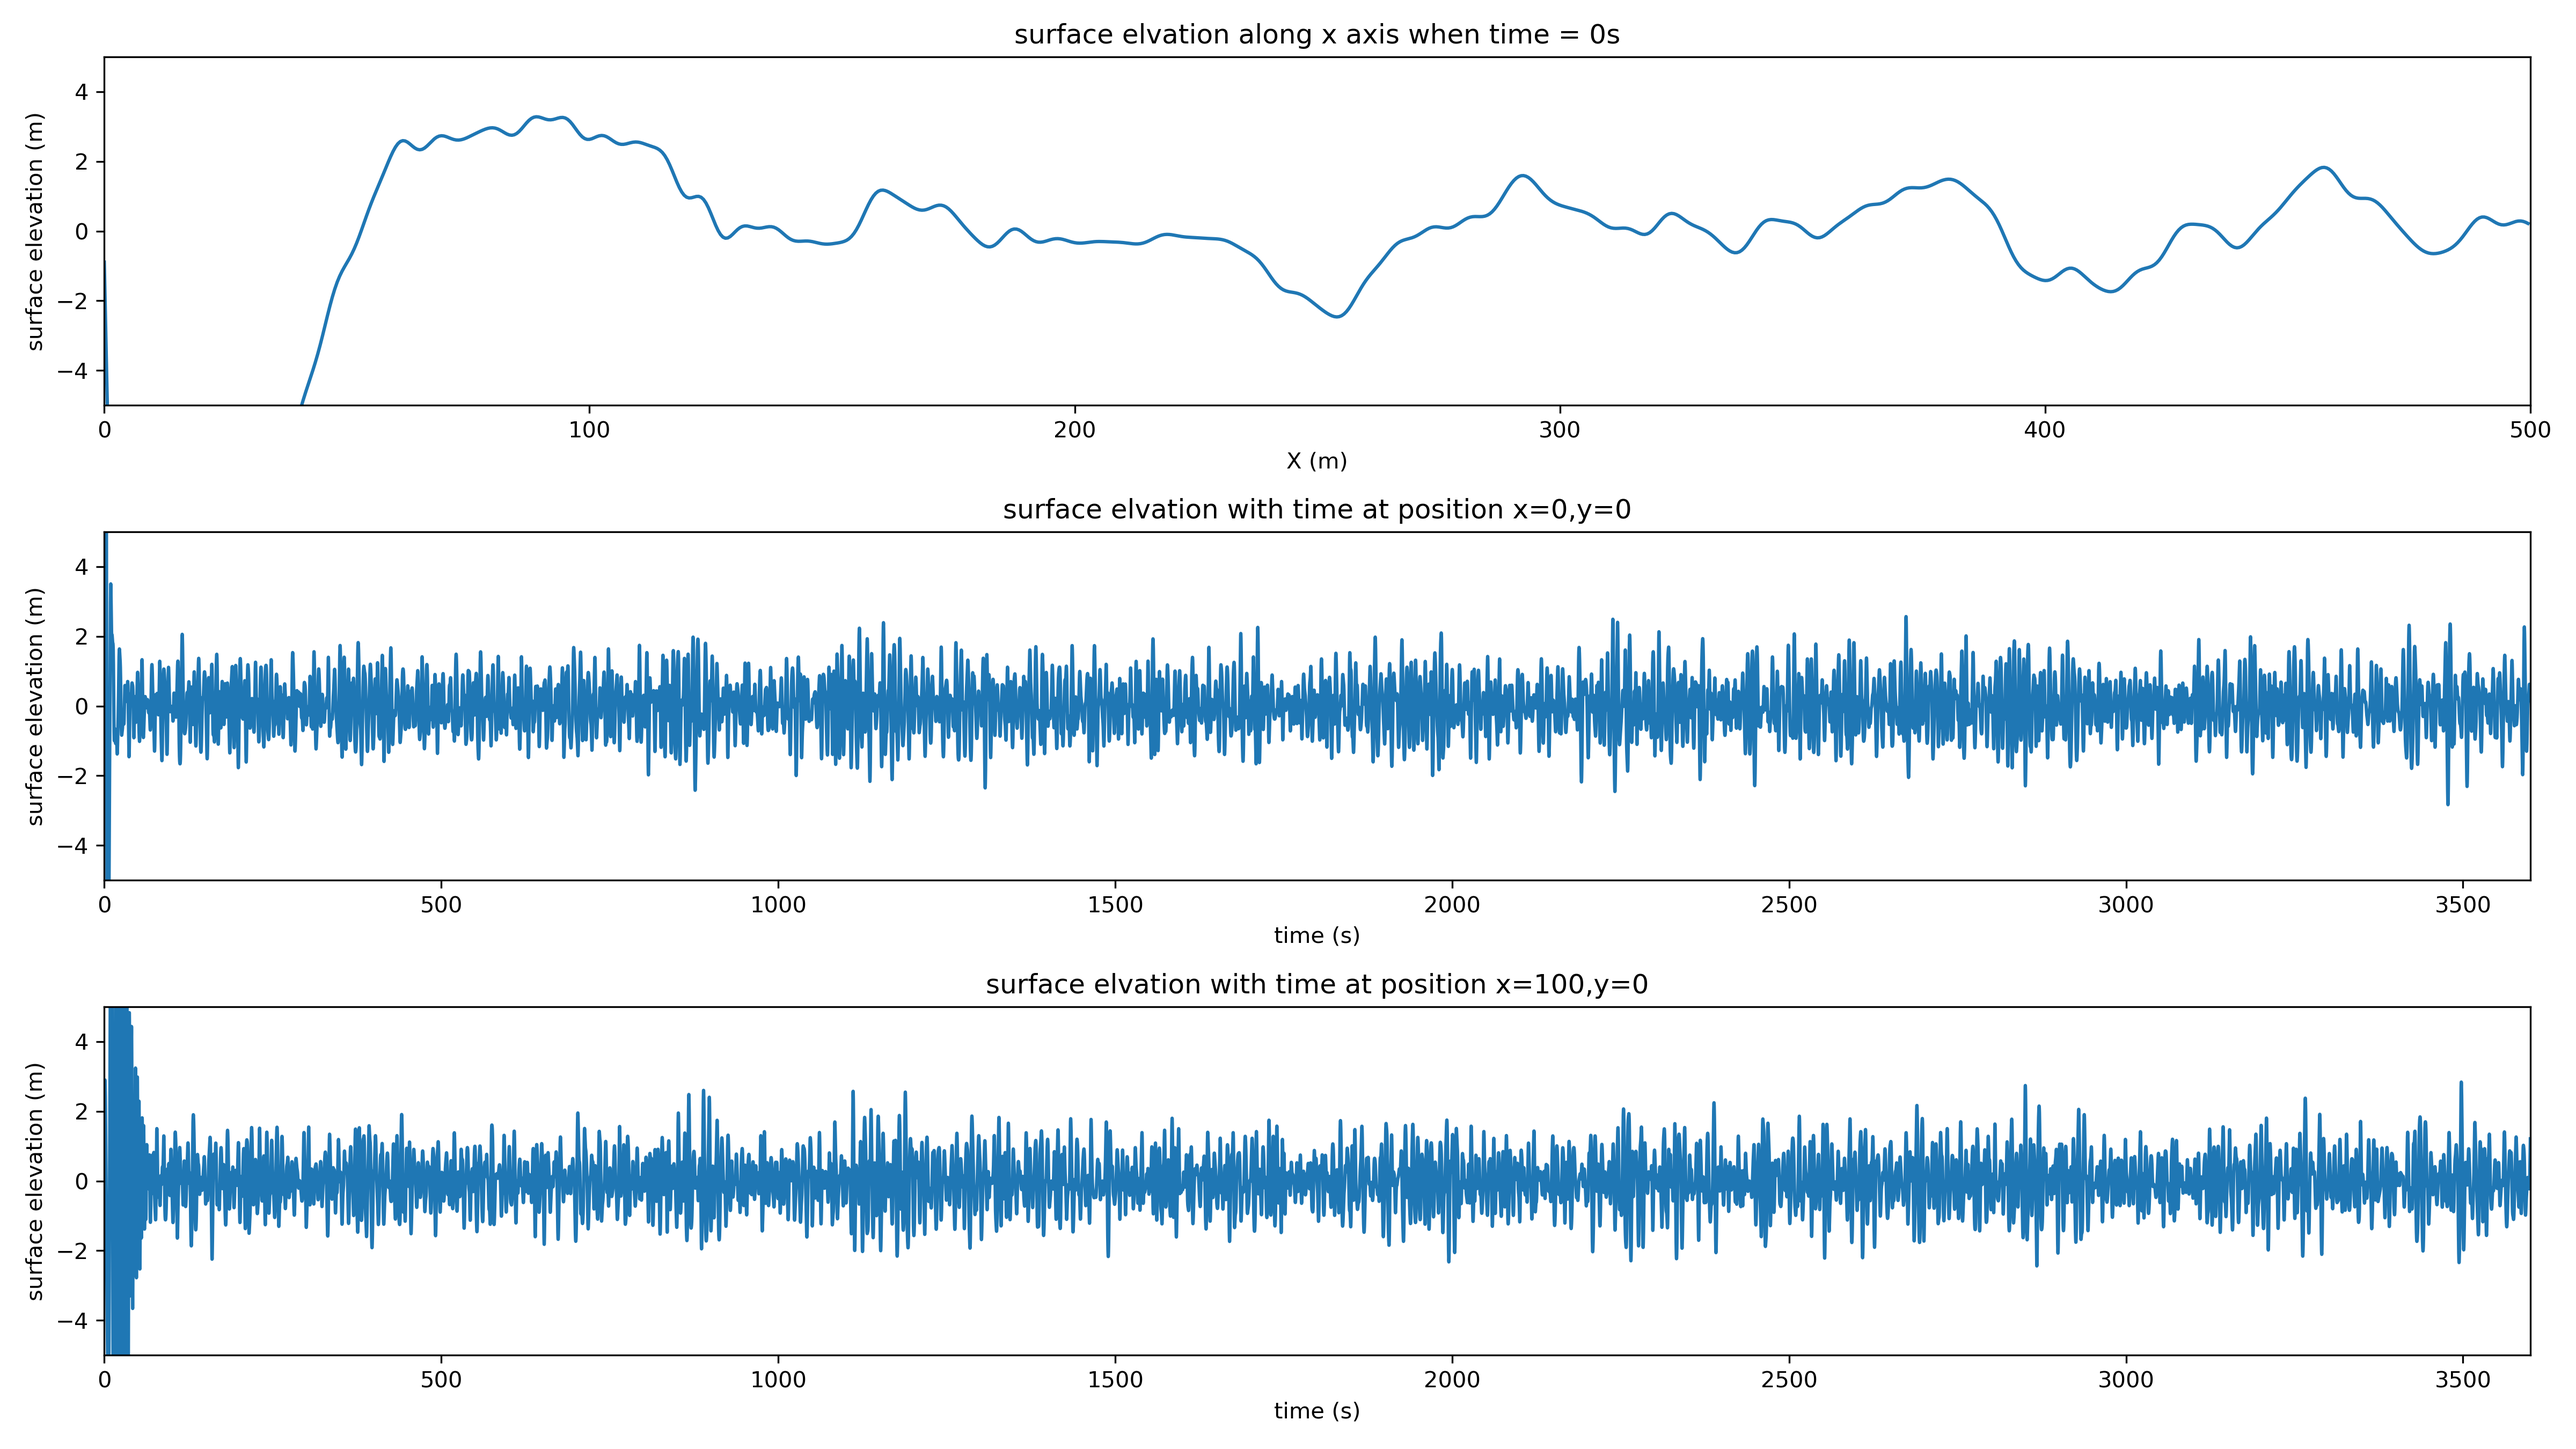
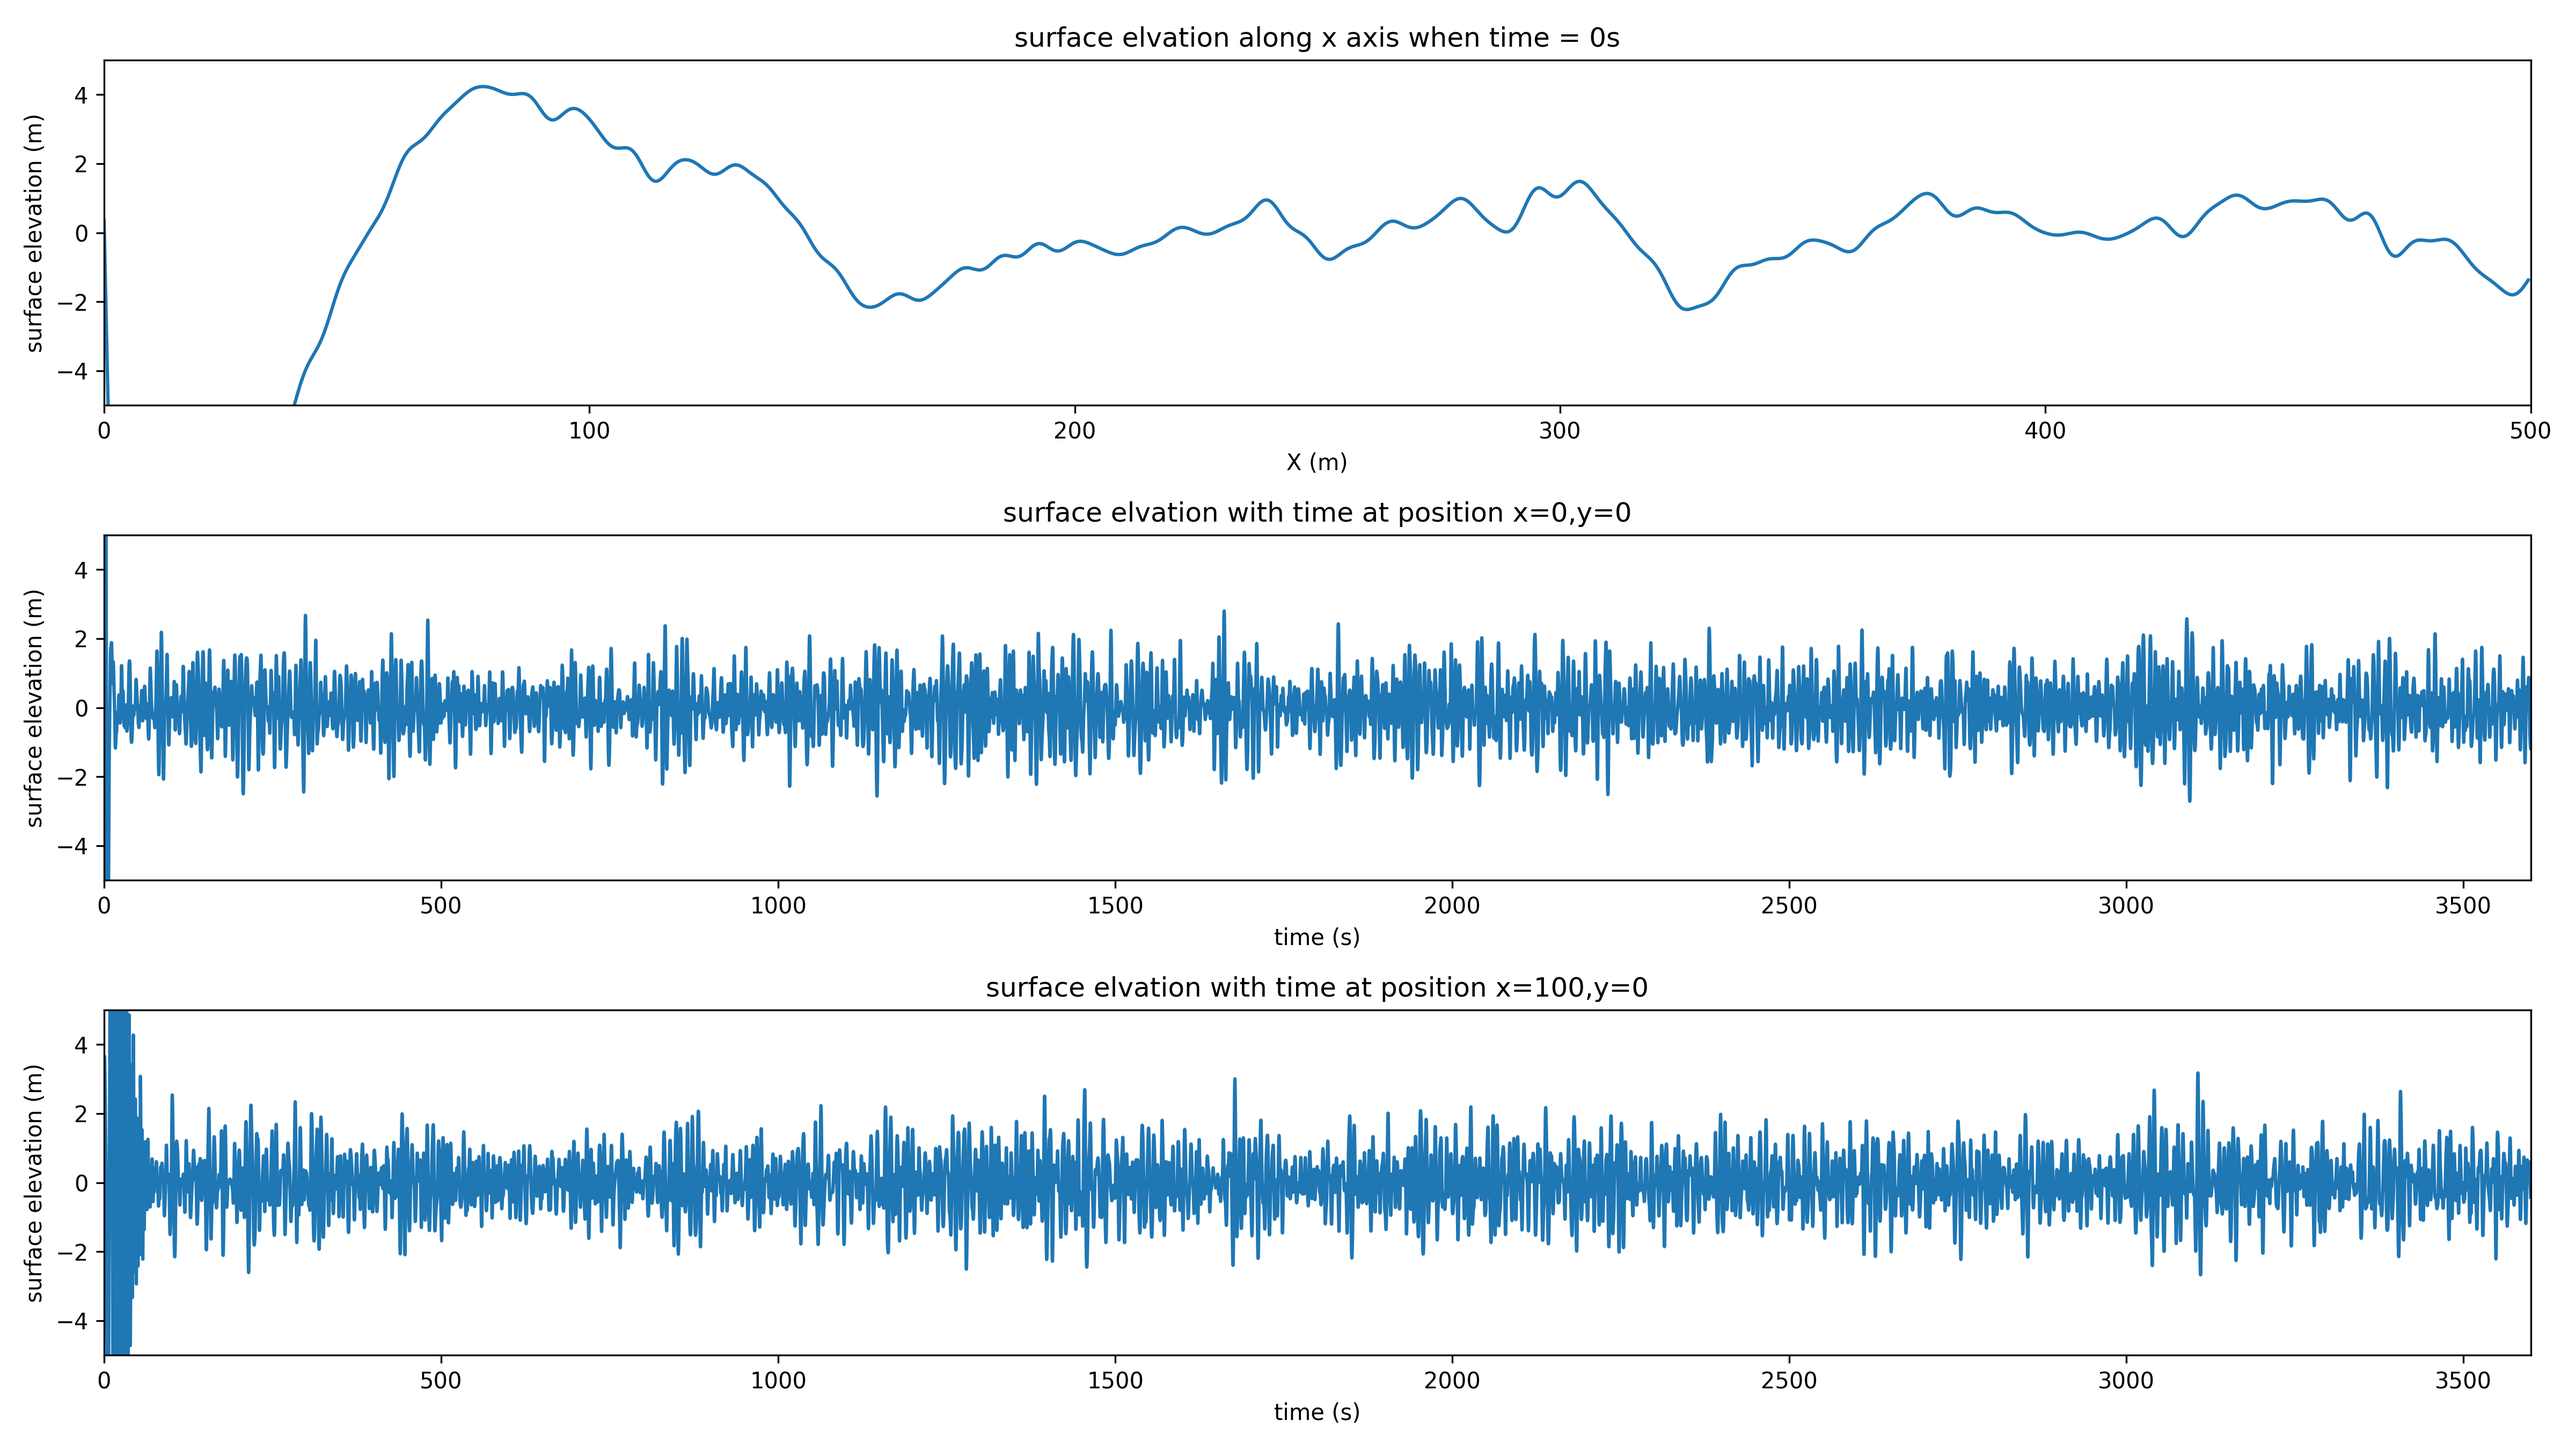
temp save

diff --git a/waves/irregularwaves.py b/waves/irregularwaves.py
@@ -24,7 +24,7 @@ class irregular_sea:
         self.tp=peak_period
         self.hs=significant_wave_height
         self.list_of_waves=[]
-        time_max=3600*3  # 3h, We assume the simulations will not exceed 3h.
+        time_max=3600*2  # 3h, We assume the simulations will not exceed 3h.
         fre_max=3        # we assume the highest eigenfrequency of studied structure is below 3 Hz.
         d_fre=2 * np.pi / time_max                # get the resolution for frequence
         fre_range=np.arange(d_fre,fre_max,d_fre)
@@ -84,7 +84,8 @@ class irregular_sea:
         # print(np.where(velo<10, velo, 0))
         # replace the value larger than 10 with 0
         # print(np.where(velo<10, velo, 0).shape)
-        return np.where(velo<10, velo,0)
+        return velo
+
 
     def get_acceleration_at_nodes(self, list_of_point, global_time):
         """
@@ -103,10 +104,20 @@ if __name__ == "__main__":
     plt.rcParams['image.cmap'] = 'summer'
 
     sea_state=irregular_sea(4,8,3,60,45)
-    print(sea_state)
     time_max = 3600 # [s]
     dt=0.1
-
+    time_frame=np.arange(0, time_max, dt)
+    print(sea_state)
+    plt.figure()
+    plt.title("surface elvation with time at position x=0,y=0")
+    plt.plot(time_frame, sea_state.get_elevations_with_time(np.array([0,0,0]),time_frame))
+    plt.xlabel("time (s)")
+    plt.ylabel("surface elevation (m)")
+    plt.xlim(0, 3600)
+    plt.ylim(-5, 5)
+    plt.tight_layout()
+    plt.show()
+    
     fig = plt.figure()
     ax = fig.gca(projection='3d')
     # time_frame=np.arange(1000,4600,dt)
@@ -118,13 +129,13 @@ if __name__ == "__main__":
     for i in range(10):
         for index, item in enumerate(x_axis):
             position[i*len(x_axis)+index]=[6*i,6*i,-item/2]
-    print(position.shape)
-    print(position)
-    velocity=sea_state.get_velocity_at_nodes(position, 20000)
+    # print(position.shape)
+    # print(position)
+    velocity=sea_state.get_velocity_at_nodes(position, 500)
     velocity_mag=[]
     for each in velocity:
         velocity_mag.append(np.linalg.norm(each))
-    print(velocity_mag)
+    print("max velocity is " +str(max(velocity_mag)) + " m/s")
     # Flatten and normalize
     velocity_mag=np.array(velocity_mag)
     normal_velo = (velocity_mag.ravel() - velocity_mag.min()) / velocity_mag.ptp()
@@ -149,16 +160,16 @@ if __name__ == "__main__":
         position=np.zeros((len(x_axis),3))
         for index, item in enumerate(x_axis):
             position[index]=[item,i,0]
-        yita=sea_state.get_elevation_at_nodes(position, 20000)
+        yita=sea_state.get_elevation_at_nodes(position, 500)
         ax.plot(x_axis,[i]*len(x_axis),yita,color="b")
 
     # plt.plot(x_axis,yita)
-    ax.set_title("JONSWAP sea condition Hs=4m, Tp=8s r=3 ")
+    ax.set_title("JONSWAP sea condition Hs=4m, Tp=8s r=3, t="+str(500)+"s")
     ax.set_xlabel('X')
     ax.set_ylabel('Y')
     ax.set_zlabel('Z')
     ax.set_xlim(0, 60)
     ax.set_ylim(0, 60)
     ax.set_zlim(-30, 5)
-    plt.savefig('./figures/waves.png', dpi=600)
+    plt.savefig('./figures/waves.png', dpi=300)
     plt.show()

diff --git a/waves/Airywave.py b/waves/Airywave.py
@@ -178,8 +178,9 @@ class Airywave:
         velo[:,2] = self.pi_h_t * np.sinh(self.wave_k * (z_streched + self.water_Depth)) * np.sin(zeta) / np.sinh(self.wave_k * self.water_Depth)
         for i in range(len(list_of_point)):
             if list_of_point[i,2] > yita[i]:
-                # print("hh")
                 velo[i]=0.0
+            # elif np.linalg.norm(velo[i]) >0.1:
+            #     print(np.linalg.norm(velo[i]))
         return velo
 
     def get_acceleration_at_nodes(self, list_of_point, global_time):
